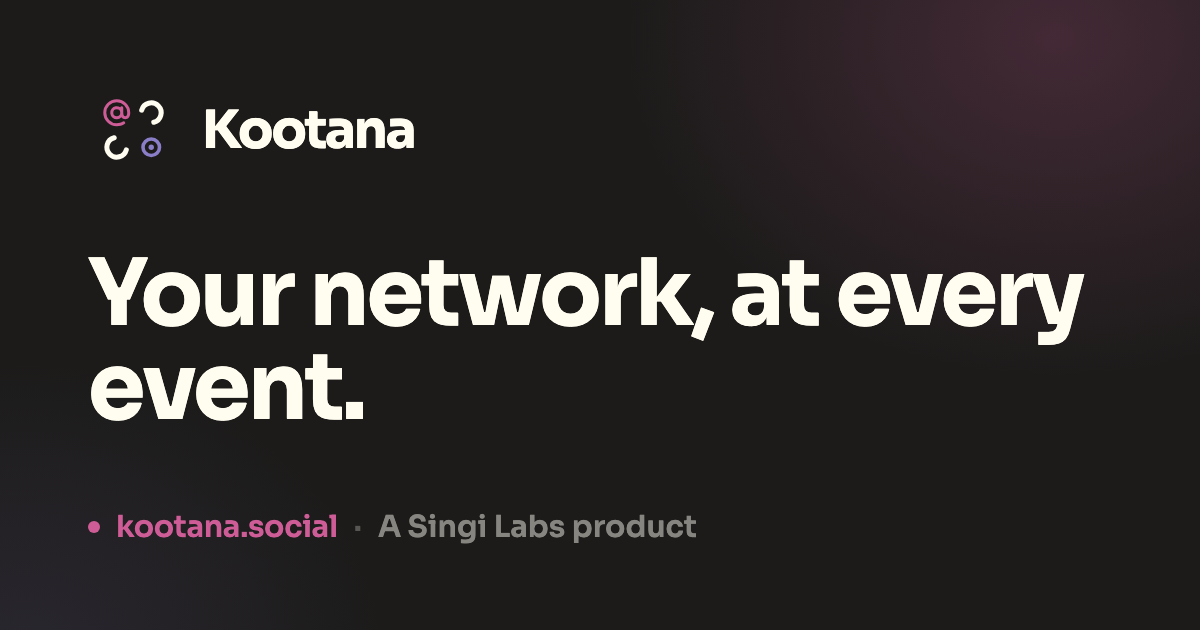
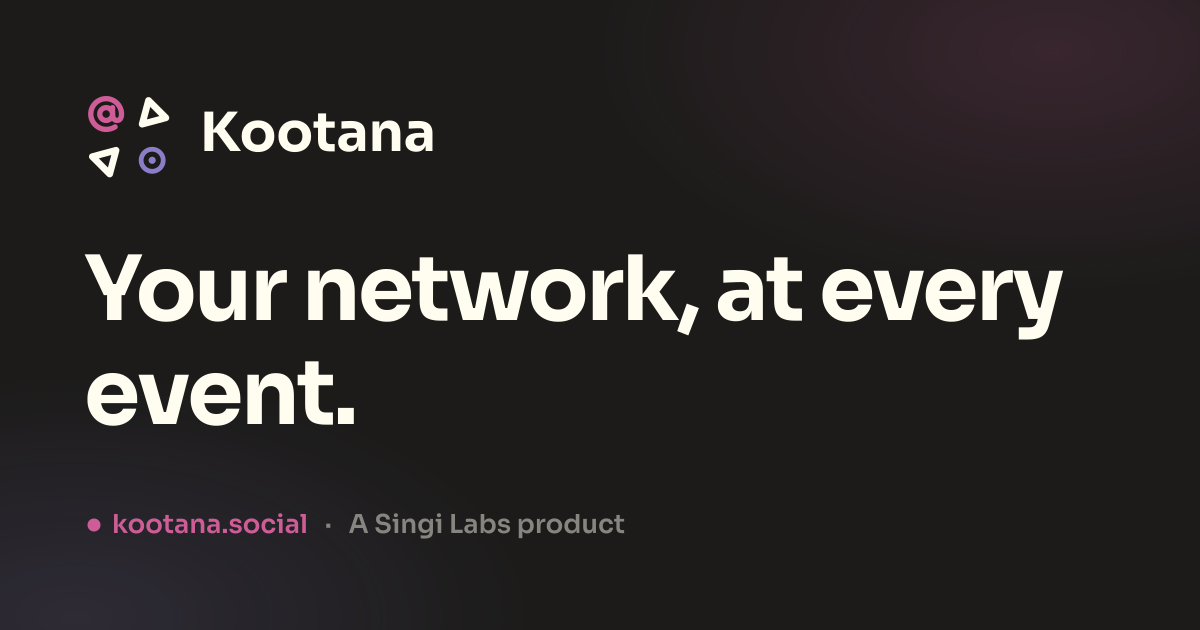
feat(brand): regenerate og-image with 2b triangle mark + add SVG source (#7)
The social card now uses the facing-triangle Kootana mark, matching the
rest of the logo swap. Adds assets/og/og-card.svg as the reproducible
source (mark inlined from the 2b transparent symbol, text in Sora) plus a
README with the render command, so the card is no longer a source-less
raster.

diff --git a/assets/og/README.md b/assets/og/README.md
@@ -1,0 +1,13 @@
+# OG image source
+
+`og-card.svg` is the source for `public/og-image.png` (1200x630 social card).
+
+Regenerate after editing the SVG:
+
+```sh
+rsvg-convert -w 1200 -h 630 assets/og/og-card.svg -o public/og-image.png
+```
+
+Requires the **Sora** font installed for text rendering (the site's display face;
+OFL, from Google Fonts). The Kootana mark is inlined from
+`kootana-symbol-dark-transparent.svg` (direction 2b, facing triangles).
